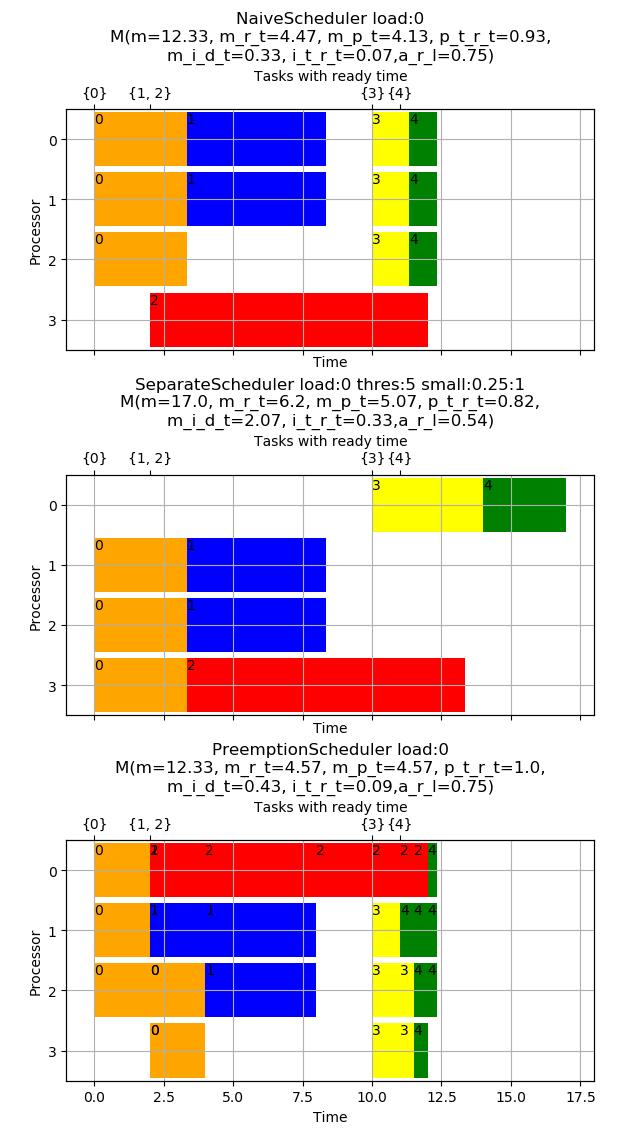
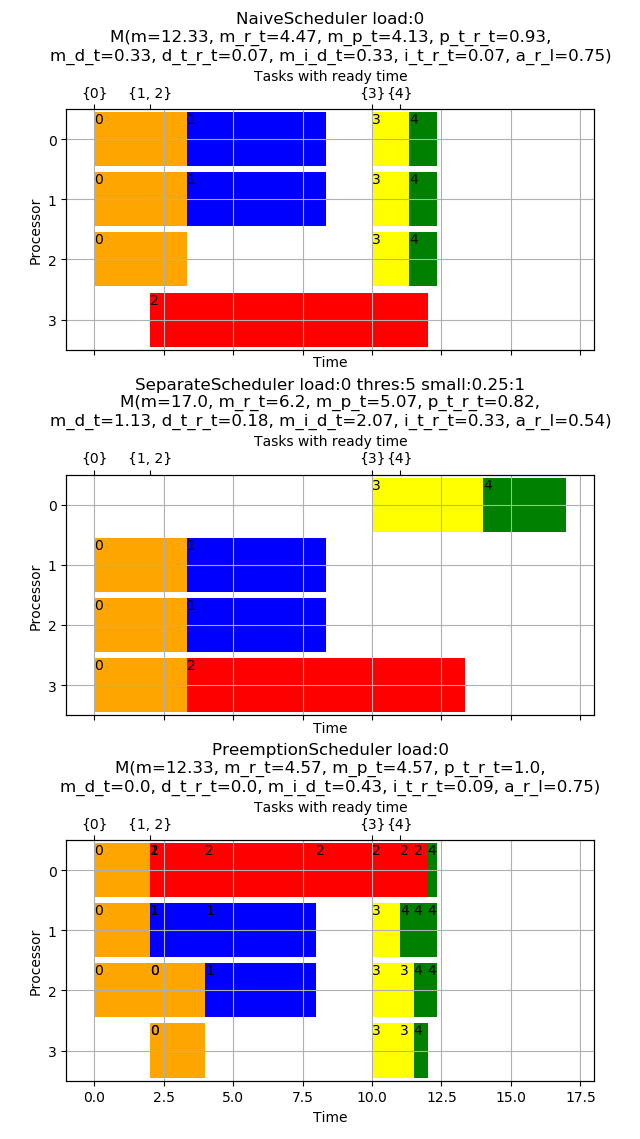
fix metrics

diff --git a/metrics.py b/metrics.py
@@ -12,15 +12,19 @@ class Metrics:
         self.max_end = max_end
         self.mean_response_time = mean_response_time
         self.mean_processing_time = mean_processing_time
+        self.mean_delay_time = self.mean_response_time - self.mean_processing_time
         self.mean_ideal_delay_time = mean_ideal_delay_time
-        self.processing_time_to_response_time = mean_processing_time / mean_response_time
-        self.delay_time_to_response_time = mean_ideal_delay_time / mean_response_time
+        self.processing_time_to_response_time = self.mean_processing_time / self.mean_response_time
+        self.delay_time_to_response_time = self.mean_delay_time / self.mean_response_time
+        self.ideal_delay_time_to_response_time = self.mean_ideal_delay_time / self.mean_response_time
         self.actual_resource_load = actual_resource_load
 
     def __str__(self):
         return f"M(m={round(self.max_end, 2)}, m_r_t={round(self.mean_response_time, 2)}, " \
                f"m_p_t={round(self.mean_processing_time, 2)}, p_t_r_t={round(self.processing_time_to_response_time, 2)},\n" \
-               f"m_i_d_t={round(self.mean_ideal_delay_time, 2)}, i_t_r_t={round(self.delay_time_to_response_time, 2)}," \
+               f"m_d_t={round(self.mean_delay_time, 2)}, d_t_r_t={round(self.delay_time_to_response_time, 2)}, " \
+               f"m_i_d_t={round(self.mean_ideal_delay_time, 2)}, " \
+               f"i_t_r_t={round(self.ideal_delay_time_to_response_time, 2)}, " \
                f"a_r_l={round(self.actual_resource_load, 2)})"
 
 

diff --git a/plot.py b/plot.py
@@ -68,18 +68,21 @@ def _to_plot(xs_of_metrics: Dict[float, Dict[str, Metrics]], func: Callable[[Met
 
 
 def print_metrics(xs_of_metrics: Dict[float, Dict[str, Metrics]], name, file="metrics.png"):
-    fig, axs = plt.subplots(nrows=2, ncols=3, squeeze=False, figsize=(12, 8))
+    fig, axs = plt.subplots(nrows=3, ncols=3, squeeze=False, figsize=(12, 12))
     fig.suptitle(name)
-    fig.tight_layout(pad=3, h_pad=3)
+    fig.tight_layout(pad=4, h_pad=3)
 
     xs = list(sorted(xs_of_metrics.keys()))
 
     i = 0
-    for name, func in {"mean response time": lambda x: x.mean_response_time,
+    for name, func in {"max end": lambda x: x.max_end,
+                       "mean response time": lambda x: x.mean_response_time,
                        "mean processing time": lambda x: x.mean_processing_time,
+                       "mean delay time": lambda x: x.mean_delay_time,
                        "mean ideal delay time": lambda x: x.mean_ideal_delay_time,
                        "processing time to\n response time": lambda x: x.processing_time_to_response_time,
                        "delay time to\n response time": lambda x: x.delay_time_to_response_time,
+                       "ideal delay time to\n response time": lambda x: x.ideal_delay_time_to_response_time,
                        "actual resource load": lambda x: x.actual_resource_load}.items():
         plots = _to_plot(xs_of_metrics, func)
         axs[i // 3, i % 3].set_title(name)
